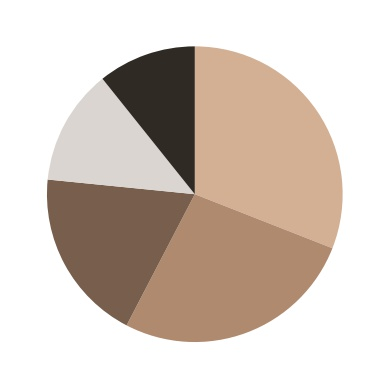
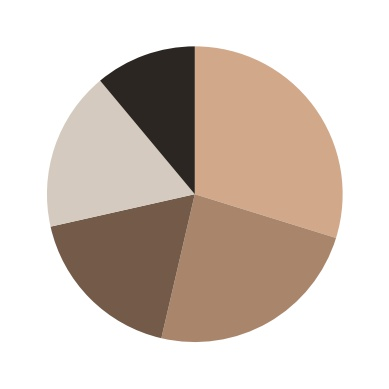
update images

diff --git a/README.md b/README.md
@@ -61,7 +61,7 @@ inst = Instance2Color(image_file='sample_img/pizza.jpg', class_name='pizza', num
 # model will be downloaded if not exist
 
 print(inst.dominant_colors()) # RGBs and percentages
-# [([176, 79, 70], 30.35), ([222, 139, 101], 26.19), ([102, 51, 42], 19.43), ([97, 181, 108], 12.89), ([227, 207, 190], 11.14)]
+# [([174, 77, 68], 29.52), ([223, 140, 100], 26.31), ([99, 47, 38], 20.08), ([96, 181, 108], 12.91), ([227, 206, 189], 11.18)]
 inst.visualize_pie(output_file='sample_img/pizza_pie_chart.jpg')
 # visualize pie chart
 inst.visualize_instance(output_file='sample_img/pizza_inst.jpg')
